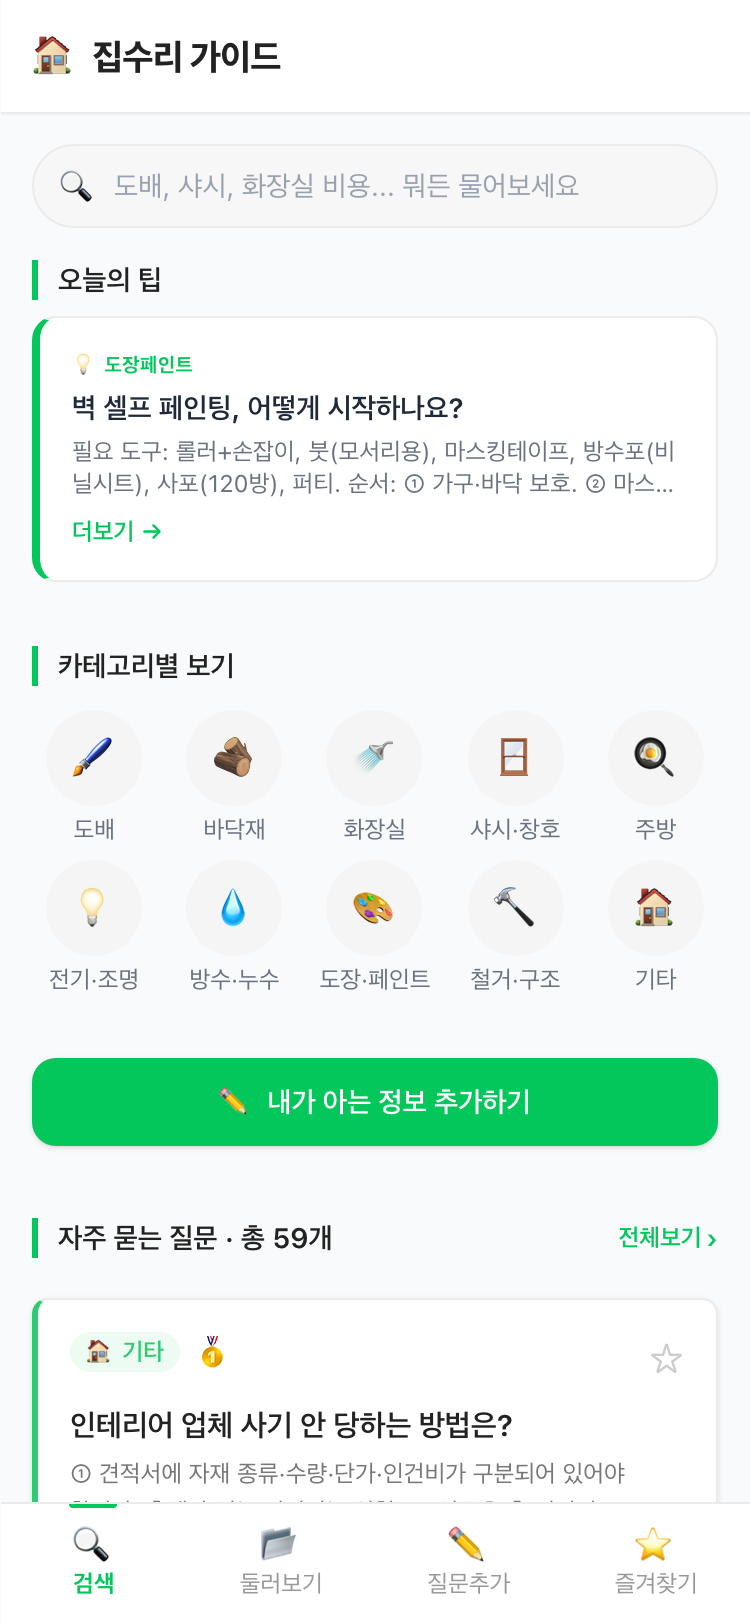
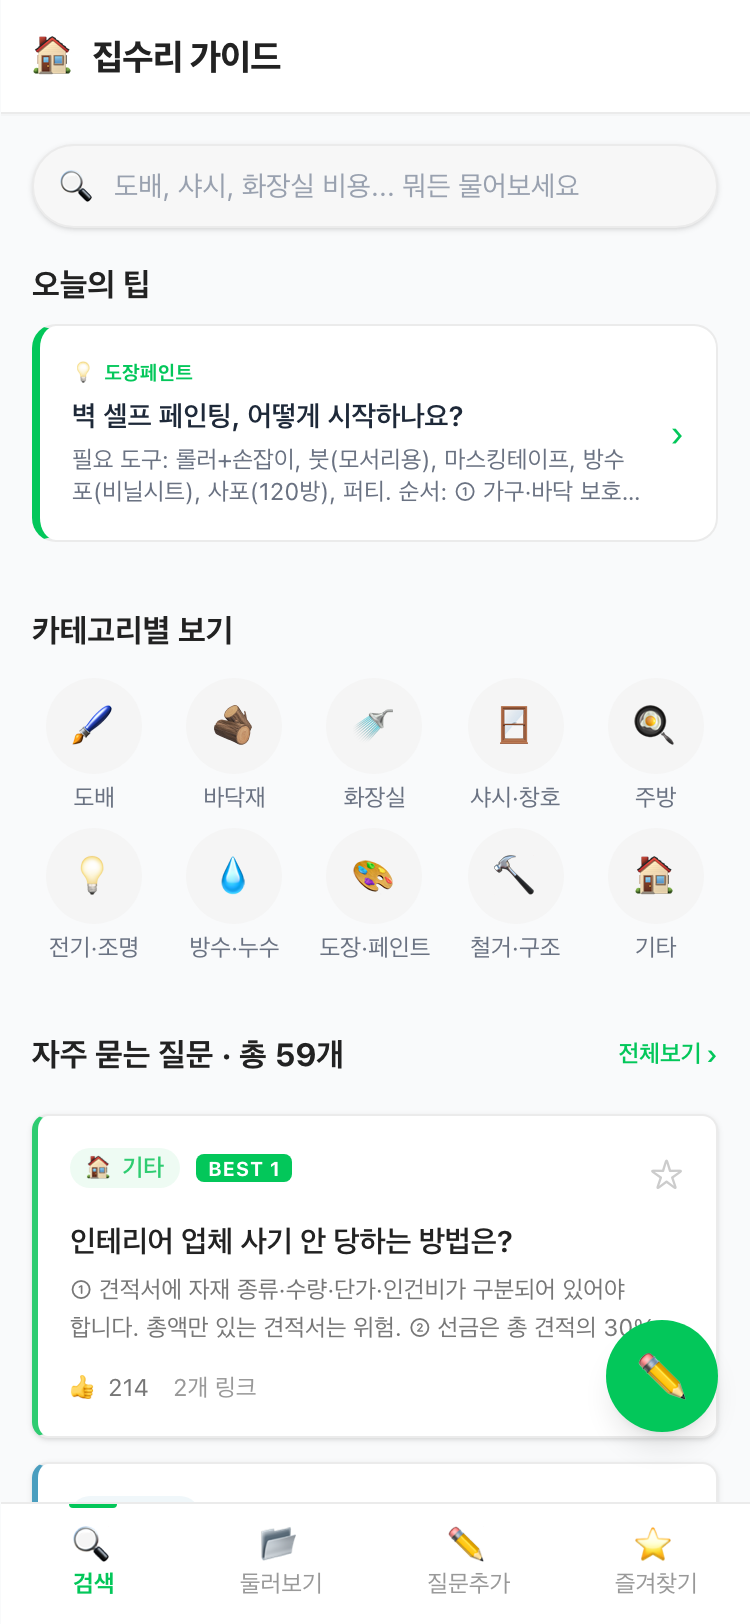
design: Gemini 2차 진단 반영 — FAB·여백·뱃지 정제
G2-1: 섹션 헤더 세로 바 제거 → 여백 중심 + text-base font-bold
G2-3: 거대 CTA 버튼 → 플로팅 액션 버튼(FAB) 전환 (오른쪽 하단)
G2-4: 검색창 shadow-sm 추가 (입체감)
G2-5: 오늘의 팁 '더보기 →' 텍스트 → 우측 › 화살표로 단순화
G2-6: rank 이모지(🥇🥈🥉) → 'BEST N' 텍스트 뱃지

Constraint: 콘텐츠 탐색 흐름 방해 최소화
Confidence: high
Scope-risk: moderate

diff --git a/src/components/home/SearchPage.tsx b/src/components/home/SearchPage.tsx
@@ -49,7 +49,7 @@ export function SearchPage() {
             value={searchQuery}
             onChange={handleSearch}
             placeholder="도배, 샤시, 화장실 비용... 뭐든 물어보세요"
-            className="w-full pl-10 pr-4 py-2.5 bg-[#F7F7F7] hover:bg-white rounded-full text-sm outline-none border border-[#EBEBEB] focus:ring-2 focus:ring-[#03C75A]/30 focus:border-[#03C75A] focus:bg-white transition-all placeholder-gray-400"
+            className="w-full pl-10 pr-4 py-2.5 bg-[#F7F7F7] hover:bg-white rounded-full text-sm outline-none border border-[#EBEBEB] focus:ring-2 focus:ring-[#03C75A]/30 focus:border-[#03C75A] focus:bg-white shadow-sm transition-all placeholder-gray-400"
           />
           {searchQuery && (
             <button
@@ -122,7 +122,7 @@ export function SearchPage() {
           {recentSearches.length > 0 && (
             <div className="mb-8">
               <div className="flex items-center justify-between mb-2">
-                <h2 className="text-sm font-semibold text-[#222222] pl-2.5 border-l-[3px] border-[#03C75A]">최근 검색어</h2>
+                <h2 className="text-base font-bold text-[#222222]">최근 검색어</h2>
                 <button onClick={clearRecentSearches} className="text-xs text-gray-400">
                   전체 삭제
                 </button>
@@ -143,20 +143,22 @@ export function SearchPage() {
 
           {/* 오늘의 팁 */}
           <div className="mb-8">
-            <h2 className="text-sm font-semibold text-[#222222] pl-2.5 border-l-[3px] border-[#03C75A] mb-2">오늘의 팁</h2>
+            <h2 className="text-base font-bold text-[#222222] mb-2">오늘의 팁</h2>
             <button
               onClick={() => setSelectedItem(todayTip)}
-              className="w-full bg-white border border-[#EBEBEB] border-l-[4px] border-l-[#03C75A] rounded-xl p-4 text-left active:scale-[0.98] transition-transform"
+              className="w-full bg-white border border-[#EBEBEB] border-l-[4px] border-l-[#03C75A] rounded-xl p-4 text-left active:scale-[0.98] transition-transform flex items-center justify-between gap-3"
             >
-              <div className="text-[10px] font-bold text-[#03C75A] uppercase tracking-wide mb-1">💡 {todayTip.category}</div>
-              <div className="text-sm font-semibold text-gray-800 mb-1">{todayTip.question}</div>
-              <div className="text-xs text-gray-500 line-clamp-2">{todayTip.answer}</div>
-              <div className="text-xs text-[#03C75A] font-semibold mt-2">더보기 →</div>
+              <div className="flex-1 min-w-0">
+                <div className="text-[10px] font-bold text-[#03C75A] uppercase tracking-wide mb-1">💡 {todayTip.category}</div>
+                <div className="text-sm font-semibold text-gray-800 mb-1">{todayTip.question}</div>
+                <div className="text-xs text-gray-500 line-clamp-2">{todayTip.answer}</div>
+              </div>
+              <span className="text-[#03C75A] text-lg shrink-0">›</span>
             </button>
           </div>
 
           {/* 카테고리 빠른 접근 */}
-          <h2 className="text-sm font-semibold text-[#222222] pl-2.5 border-l-[3px] border-[#03C75A] mb-3">카테고리별 보기</h2>
+          <h2 className="text-base font-bold text-[#222222] mb-3">카테고리별 보기</h2>
           <div className="grid grid-cols-5 gap-2 mb-8">
             {CATEGORIES.map((cat) => (
               <button
@@ -174,18 +176,9 @@ export function SearchPage() {
             ))}
           </div>
 
-          {/* 질문 추가 CTA */}
-          <button
-            onClick={() => setActiveTab('add')}
-            className="w-full bg-[#03C75A] text-white rounded-xl py-3 mb-8 text-sm font-semibold shadow-sm active:scale-[0.98] transition-transform flex items-center justify-center gap-1.5"
-          >
-            <span>✏</span>
-            <span>내가 아는 정보 추가하기</span>
-          </button>
-
           {/* 인기 질문 */}
           <div className="flex items-center justify-between mb-4">
-            <h2 className="text-sm font-semibold text-[#222222] pl-2.5 border-l-[3px] border-[#03C75A]">자주 묻는 질문 · 총 {KNOWLEDGE_BASE.length + userQuestions.length}개</h2>
+            <h2 className="text-base font-bold text-[#222222]">자주 묻는 질문 · 총 {KNOWLEDGE_BASE.length + userQuestions.length}개</h2>
             <button
               onClick={() => setSelectedItem(null)}
               className="flex items-center gap-0.5 text-xs text-[#03C75A] font-semibold px-2 py-1 -mr-2"

diff --git a/src/components/qa/QACard.tsx b/src/components/qa/QACard.tsx
@@ -11,7 +11,6 @@ interface Props {
   rank?: number
 }
 
-const RANK_BADGE: Record<number, string> = { 1: '🥇', 2: '🥈', 3: '🥉' }
 
 export function QACard({ item, compact = false, rank }: Props) {
   const { favorites, toggleFavorite, setSelectedItem, likesMap, incrementLike, searchQuery } = useQAStore(
@@ -43,7 +42,9 @@ export function QACard({ item, compact = false, rank }: Props) {
             {category?.icon} {item.category}
           </span>
           {rank && rank <= 3 && (
-            <span className="text-base leading-none">{RANK_BADGE[rank]}</span>
+            <span className="inline-flex items-center text-[10px] bg-[#03C75A] text-white px-1.5 py-0.5 rounded-sm font-bold tracking-wide leading-none">
+              BEST {rank}
+            </span>
           )}
           {item.isFeatured && !rank && (
             <span className="text-[10px] bg-[#03C75A] text-white px-2 py-0.5 rounded-sm font-bold tracking-wide">

diff --git a/src/App.tsx b/src/App.tsx
@@ -1,6 +1,7 @@
 import { useQAStore } from '@/stores/qaStore'
 import { ErrorBoundary } from '@/components/common/ErrorBoundary'
 import { ScrollToTop } from '@/components/common/ScrollToTop'
+import { AddFab } from '@/components/common/AddFab'
 import { Header } from '@/components/layout/Header'
 import { BottomNav } from '@/components/layout/BottomNav'
 import { SearchPage } from '@/components/home/SearchPage'
@@ -34,6 +35,7 @@ export default function App() {
           <main className="pt-14 pb-20 min-h-screen">
             <div key={activeTab + (selectedItem?.id ?? '')} className="py-4 fade-in">{renderPage()}</div>
           </main>
+          <AddFab />
           <ScrollToTop />
           <BottomNav />
         </div>

diff --git a/src/components/common/AddFab.tsx b/src/components/common/AddFab.tsx
@@ -1,0 +1,15 @@
+import { useQAStore } from '@/stores/qaStore'
+
+export function AddFab() {
+  const { activeTab, setActiveTab } = useQAStore()
+  if (activeTab === 'add') return null
+  return (
+    <button
+      onClick={() => setActiveTab('add')}
+      className="fixed bottom-24 right-4 w-14 h-14 bg-[#03C75A] text-white rounded-full shadow-lg flex items-center justify-center text-2xl z-40 active:scale-95 transition-transform"
+      aria-label="내 정보 추가"
+    >
+      ✏
+    </button>
+  )
+}
